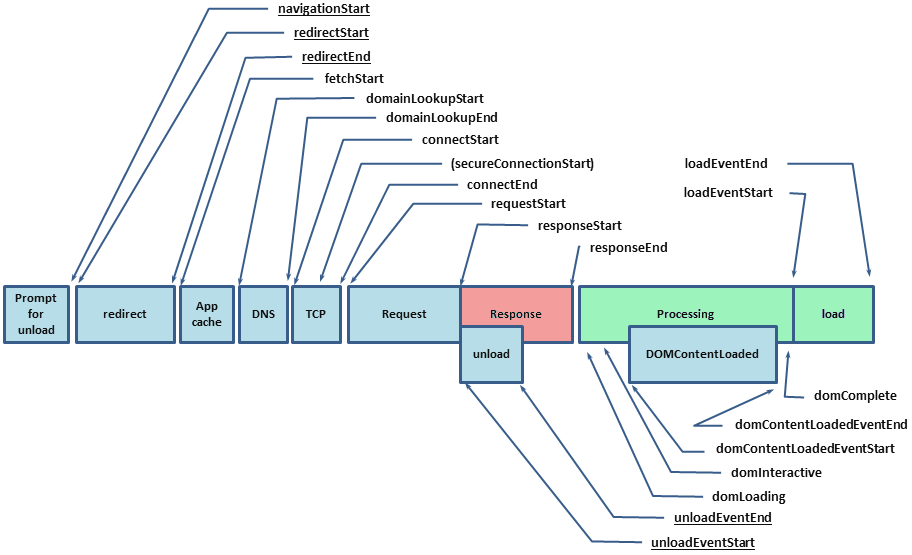
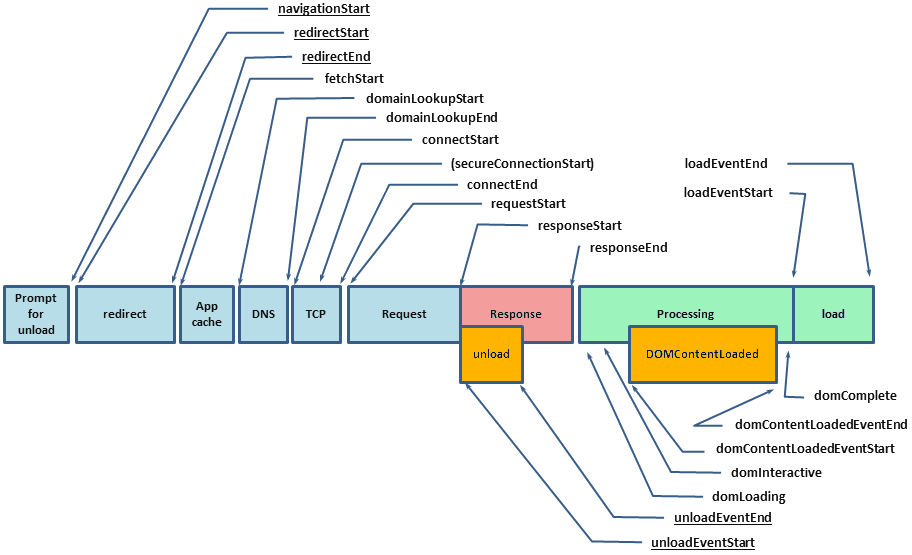
[#1] Navigation Timing API added.

Changed region(s): [[0.6754, 0.582, 0.8596, 0.7045], [0.4912, 0.582, 0.5833, 0.7045]]

diff --git a/in-progress/web-performance-crash-course/index.html b/in-progress/web-performance-crash-course/index.html
@@ -764,10 +764,30 @@
           </section>
 
           <section>
-            <h1>Navigation Timing API</h1>
+            <h2>Navigation Timing API</h2>
+            <img src="img/timing-api-overview.png" alt="Navigation Timing API" />
+
             <aside class="notes">
               <ul>
-                <li>TODO: Obrazki (2x - podział, overview) + GIF z konsoli.</li>
+                <li>
+                  Bardzo pożyteczne API, umożliwiające zebranie statystyk po stronie klienta w celu określenia parametrów jego połączenia.
+                </li>
+                <li>
+                  Trzy kolory na obrazku reprezentują podział na część sieciową (niebieski), czas spędzony na serwerze (czerwony), oraz po stronie przeglądarki (zielony).
+                </li>
+              </ul>
+            </aside>
+          </section>
+
+          <section>
+            <h2>Navigation Timing API</h2>
+            <img src="img/timing-api-usage.gif" alt="Navigation Timing API usage" />
+
+            <aside class="notes">
+              <ul>
+                <li>
+                  Widzimy na slajdzie przykład zastosowania omawianego API.
+                </li>
               </ul>
             </aside>
           </section>
@@ -1043,6 +1063,9 @@ function benchmark() {
             </li>
             <li>
               <a href="http://w3c-test.org/webperf/specs/NavigationTiming/">Navigation Timing API</a>
+            </li>
+            <li>
+              <a href="TODO">Visualizations of LOC</a>
             </li>
           </ul>
         </section>

diff --git a/in-progress/web-performance-crash-course/css/theme/default.css b/in-progress/web-performance-crash-course/css/theme/default.css
@@ -81,7 +81,7 @@ body {
 
 .reveal .browser {
   top: 183px;
-  left: 110px;
+  left: 100px;
 }
 
 .reveal .os {

diff --git a/in-progress/web-performance-crash-course/script.md b/in-progress/web-performance-crash-course/script.md
@@ -48,6 +48,9 @@
 ## Narzędzia
 
 ### Co MUSZĘ powiedzieć?
+
+- Navigation Timing API - ważne z punktu widzenia metryk i informacji o połączeniu jakie posiada klient.
+
 ### Co WARTO powiedzieć?
 ### Nad czym się NIE rozwodzić?
 
